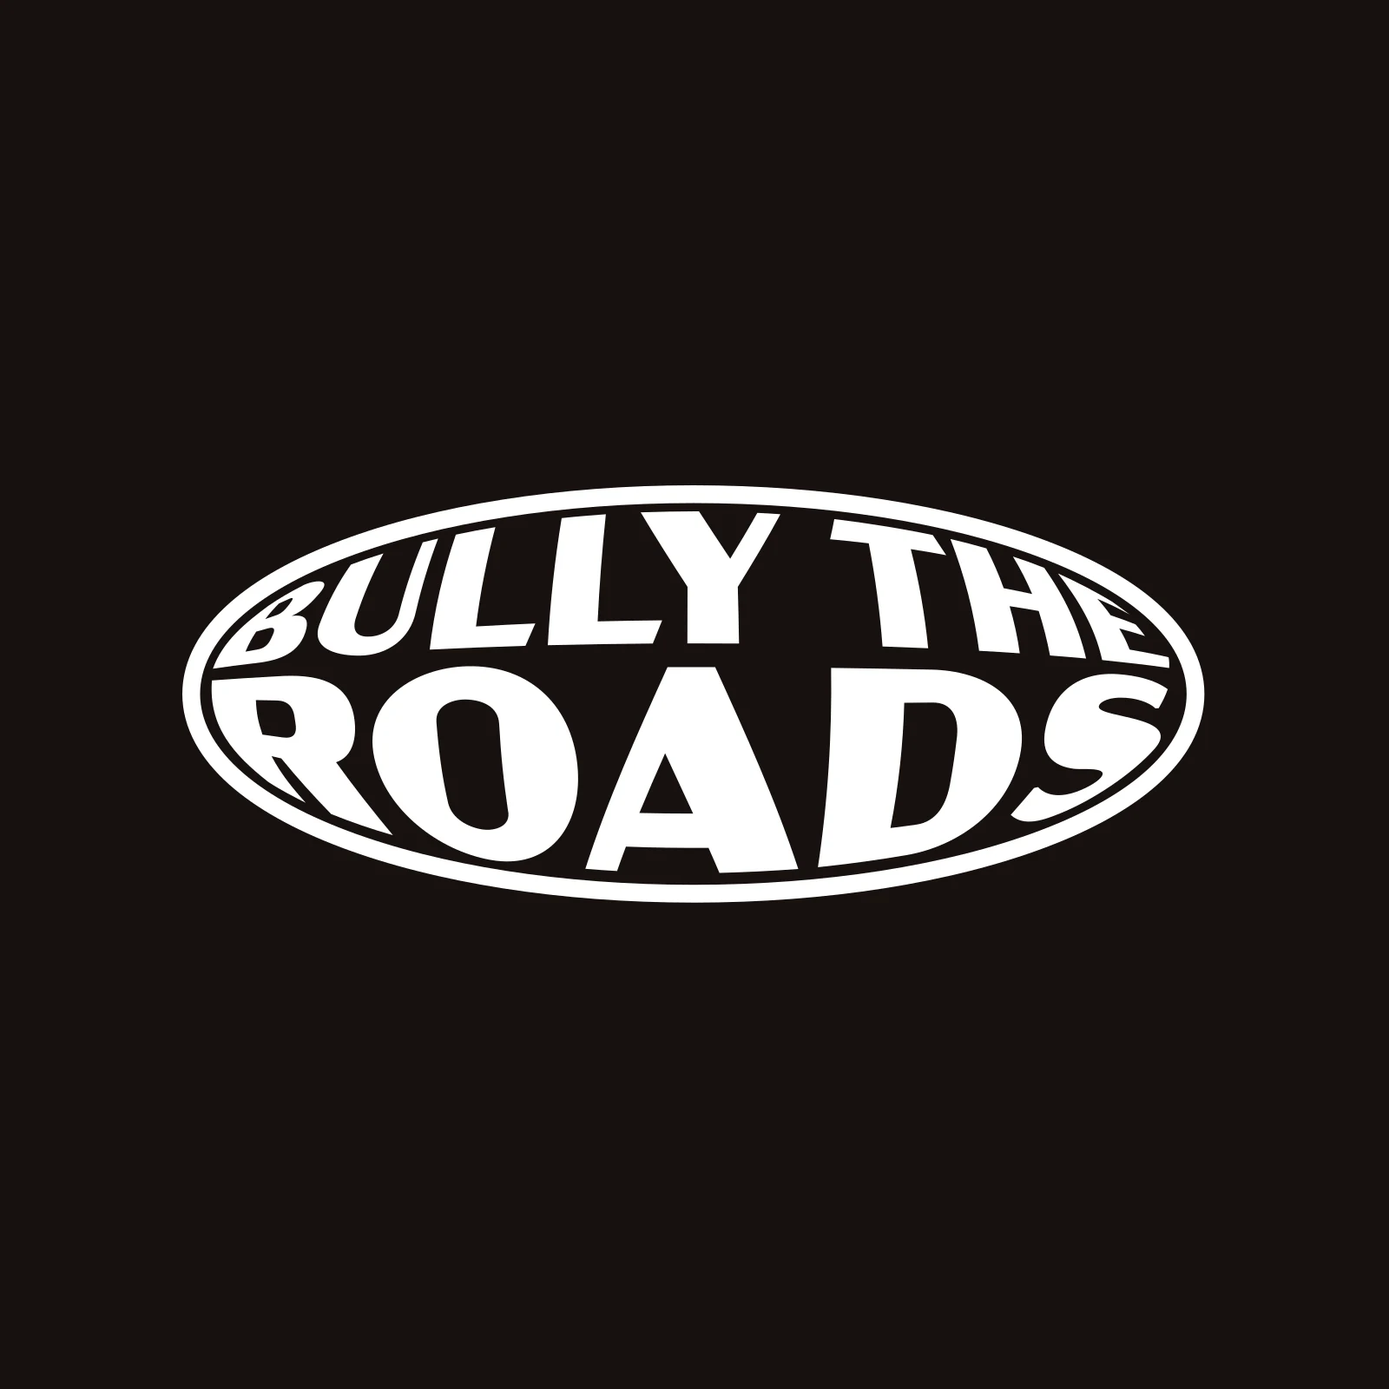
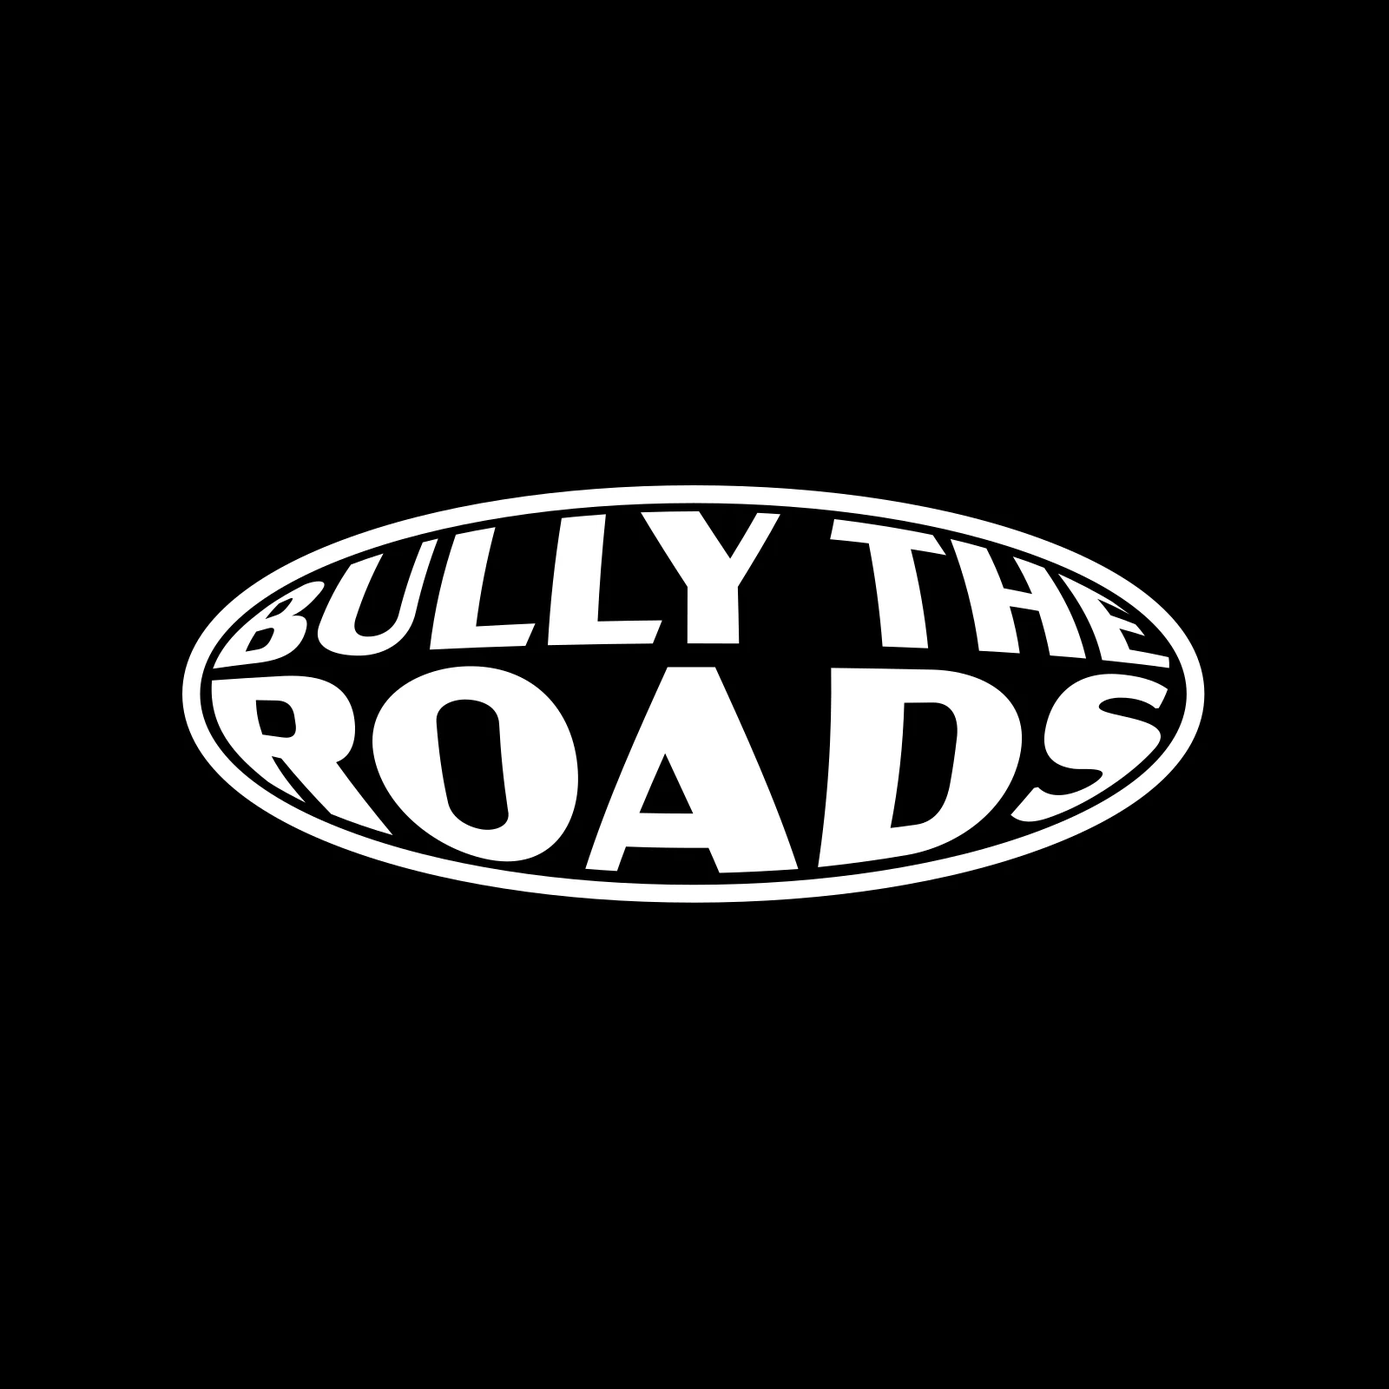
Bully The Roads: badge white on black and black on white, cut type and modes copy
Claude-Session: https://claude.ai/code/session_014Ezcq5BFYYXyuuBGNHBeA6

diff --git a/assets/data.js b/assets/data.js
@@ -55,7 +55,7 @@ window.BERNS = {
       summary: 'The London run club I founded, and everything it looks like: the badge, the series, the content and the kit.',
       quote: 'You run. We bully.',
       cover: 'assets/work/btr/cover.webp', img: 'assets/work/btr/cover.webp', /* the crew at Runlimited, IMG_3259 (Berns's pick, Nov 2026) */
-      chapters: [{"h": "The club", "text": ["Bully The Roads started in lockdown in 2020, a few of us running the streets of London. In 2024 I brought it back as a proper club: grassroots, for all people and all paces.", "The idea is simple. Sport doesn't stop at school. Bully The Roads is PE for adults, running first, with track sessions, rounders and sports days along the way. Every challenge is there to be overcome, so we bully it.", "I founded it, so the brief was mine too: make a small club look and feel like a real sports club, without losing the warmth that keeps people coming back."], "rows": []}, {"h": "The identity", "text": ["The badge is the whole system. Bully The Roads sits inside an oval, like an old athletics club crest, and it is always the logo or nothing: the name is never set in type in its place. It comes in two files, a solid black oval for the day colours and a white reverse with an open centre for ink and night.", "The oval is also a container. Swap the words and it becomes a mark for whatever we take on next: 10K, Marathon, Sports Day. Anton, stretched into towers, shouts the headline, Archivo carries days, places and numbers, Instrument Serif italic is the joke in between, and Space Mono sets the facts: times, distances, meeting points.", "The club shows up in two lights. Day is for Saturday sessions, sports days and socials: lemon, tangerine, marigold and rose as whole grounds, with ink type and the solid badge. Night is for anything after six: plum-black grounds lit by soft glows, lavender type, Unbounded in place of Anton, a flare gradient on one word, and the reverse badge. The grid, the voice and the logo never change."], "rows": [{"row": "pair", "items": [{"img": "assets/work/btr/badge-black.webp", "r": 1.0, "cap": "The badge, reverse, on ink"}, {"img": "assets/work/btr/badge-white.webp", "r": 1.0, "cap": "The badge, solid, on lemon"}]}, {"row": "trio", "cap": "One oval, any challenge", "items": [{"img": "assets/work/btr/oval-10k.webp", "r": 1.0, "cap": "10K"}, {"img": "assets/work/btr/oval-marathon.webp", "r": 1.0, "cap": "Marathon"}, {"img": "assets/work/btr/oval-sportsday.webp", "r": 1.0, "cap": "Sports Day"}]}]}, {"h": "The series", "text": ["Every series gets its own name and its own look, always under the badge. The Night Shift was eight weeks of Thursday night city runs through central London. Bully the Track took us to the London Marathon Community Track every Wednesday in July, for speed and endurance.", "The Kings Cross Run is the latest: Thursday nights with Runlimited at Coal Drops Yard. Bag drop at six, run at half six, 5K, every pace welcome."], "rows": [{"row": "trio", "items": [{"img": "assets/work/btr/night-shift.webp", "r": 0.8, "cap": "The Night Shift"}, {"img": "assets/work/btr/track.webp", "r": 0.8, "cap": "Bully the Track, summer 2025"}, {"img": "assets/work/btr/kx-run.webp", "r": 0.8, "cap": "Kings Cross Run, with Runlimited"}]}, {"row": "pair", "items": [{"img": "assets/work/btr/night-shift-calendar.webp", "r": 0.8, "cap": "The Night Shift, run calendar"}, {"video": "assets/video/btr/kx-run.mp4", "poster": "assets/video/btr/kx-run.webp", "r": 0.8, "cap": "Kings Cross Run, the weekly post"}]}]}, {"h": "Thursday nights", "text": ["Saheed shot the Kings Cross Run: dark streets, city lights and the crew mid-stride, from bag drop at Runlimited to the stretch at the end."], "rows": [{"row": "full", "items": [{"img": "assets/work/btr/232.webp", "r": 1.25, "cap": "Coal Drops Yard"}]}]}, {"h": "The kit", "text": ["Merch turns members into the billboard. The You Run. We Bully. tee, made with MSNGR, keeps the badge front and centre. Turn it round to see the back."], "rows": [{"row": "offset", "items": [{"tee": {"front": "assets/work/btr/tee-front.webp", "back": "assets/work/btr/tee-back.webp", "model": "assets/work/btr/tee.glb"}, "r": 1.25, "cap": "BTR x MSNGR tee"}]}]}, {"h": "Where it's going", "text": ["We don't run every week. We run in series across the year, each with its own name and its own look under the same badge. It also led to Track + Play, the community sports day I co-founded.", "Next is developing the visual identity and the community structure behind it."], "rows": [{"row": "full", "items": [{"img": "assets/work/btr/lights.webp", "r": 1.25, "cap": "See you on the road"}]}]}],
+      chapters: [{"h": "The club", "text": ["Bully The Roads started in lockdown in 2020, a few of us running the streets of London. In 2024 I brought it back as a proper club: grassroots, for all people and all paces.", "The idea is simple. Sport doesn't stop at school. Bully The Roads is PE for adults, running first, with track sessions, rounders and sports days along the way. Every challenge is there to be overcome, so we bully it.", "I founded it, so the brief was mine too: make a small club look and feel like a real sports club, without losing the warmth that keeps people coming back."], "rows": []}, {"h": "The identity", "text": ["The badge is the whole system. Bully The Roads sits inside an oval, like an old athletics club crest, and it is always the logo or nothing: the name is never set in type in its place. It comes in two files: the black oval on white, and the white reverse on black.", "The oval is also a container. Swap the words and it becomes a mark for whatever we take on next: 10K, Marathon, Sports Day."], "rows": [{"row": "pair", "items": [{"img": "assets/work/btr/badge-black.webp", "r": 1.0, "cap": "The badge, white on black"}, {"img": "assets/work/btr/badge-white.webp", "r": 1.0, "cap": "The badge, black on white"}]}, {"row": "trio", "cap": "One oval, any challenge", "items": [{"img": "assets/work/btr/oval-10k.webp", "r": 1.0, "cap": "10K"}, {"img": "assets/work/btr/oval-marathon.webp", "r": 1.0, "cap": "Marathon"}, {"img": "assets/work/btr/oval-sportsday.webp", "r": 1.0, "cap": "Sports Day"}]}]}, {"h": "The series", "text": ["Every series gets its own name and its own look, always under the badge. The Night Shift was eight weeks of Thursday night city runs through central London. Bully the Track took us to the London Marathon Community Track every Wednesday in July, for speed and endurance.", "The Kings Cross Run is the latest: Thursday nights with Runlimited at Coal Drops Yard. Bag drop at six, run at half six, 5K, every pace welcome."], "rows": [{"row": "trio", "items": [{"img": "assets/work/btr/night-shift.webp", "r": 0.8, "cap": "The Night Shift"}, {"img": "assets/work/btr/track.webp", "r": 0.8, "cap": "Bully the Track, summer 2025"}, {"img": "assets/work/btr/kx-run.webp", "r": 0.8, "cap": "Kings Cross Run, with Runlimited"}]}, {"row": "pair", "items": [{"img": "assets/work/btr/night-shift-calendar.webp", "r": 0.8, "cap": "The Night Shift, run calendar"}, {"video": "assets/video/btr/kx-run.mp4", "poster": "assets/video/btr/kx-run.webp", "r": 0.8, "cap": "Kings Cross Run, the weekly post"}]}]}, {"h": "Thursday nights", "text": ["Saheed shot the Kings Cross Run: dark streets, city lights and the crew mid-stride, from bag drop at Runlimited to the stretch at the end."], "rows": [{"row": "full", "items": [{"img": "assets/work/btr/232.webp", "r": 1.25, "cap": "Coal Drops Yard"}]}]}, {"h": "The kit", "text": ["Merch turns members into the billboard. The You Run. We Bully. tee, made with MSNGR, keeps the badge front and centre. Turn it round to see the back."], "rows": [{"row": "offset", "items": [{"tee": {"front": "assets/work/btr/tee-front.webp", "back": "assets/work/btr/tee-back.webp", "model": "assets/work/btr/tee.glb"}, "r": 1.25, "cap": "BTR x MSNGR tee"}]}]}, {"h": "Where it's going", "text": ["We don't run every week. We run in series across the year, each with its own name and its own look under the same badge. It also led to Track + Play, the community sports day I co-founded.", "Next is developing the visual identity and the community structure behind it."], "rows": [{"row": "full", "items": [{"img": "assets/work/btr/lights.webp", "r": 1.25, "cap": "See you on the road"}]}]}],
       made: ["The badge and event marks", "Colour and type", "Series identities: The Night Shift, Bully the Track, Kings Cross Run", "Weekly social content", "Merch"],
       credits: [["Me", "Founder. Identity, art direction, design and content"], ["Photography", "Saheed, Kings Cross Run"], ["Kings Cross Run", "With Runlimited, Coal Drops Yard"]] },
     { id: 'everyone-wants-posters', name: 'Everyone Wants Posters', client: '', discipline: 'Poster design', year: '',

diff --git a/studios/project.html b/studios/project.html
@@ -16,7 +16,7 @@
 <link rel="preconnect" href="https://fonts.gstatic.com" crossorigin>
 <link rel="stylesheet" href="https://fonts.googleapis.com/css2?family=Space+Mono:wght@700&display=swap">
 <link rel="stylesheet" href="../assets/core.css?v=124">
-<script src="../assets/data.js?v=39"></script>
+<script src="../assets/data.js?v=40"></script>
 <script src="../assets/copy.js?v=1"></script>
 <script>
 /* The project's colour, set before the first paint so the page opens in it */

diff --git a/shop/print.html b/shop/print.html
@@ -103,7 +103,7 @@
   </section>
 </main>
 
-<script src="../assets/data.js?v=39"></script>
+<script src="../assets/data.js?v=40"></script>
 <script src="../assets/core.js?v=50"></script>
 <script src="https://cdn.jsdelivr.net/npm/three@0.128.0/build/three.min.js" defer></script>
 <script src="https://cdn.jsdelivr.net/npm/three@0.128.0/examples/js/controls/OrbitControls.js" defer></script>

diff --git a/studios/index.html b/studios/index.html
@@ -74,7 +74,7 @@
   <a href="#top" onclick="scrollTo({top:0,behavior:'smooth'});return false">Back to top &uarr;</a>
 </footer>
 
-<script src="../assets/data.js?v=39"></script>
+<script src="../assets/data.js?v=40"></script>
 <script src="../assets/copy.js?v=1"></script>
 <script src="../assets/core.js?v=50"></script>
 <script src="../assets/work.js?v=48"></script>

diff --git a/community/index.html b/community/index.html
@@ -45,7 +45,7 @@
   <div class="mark rv" data-logo></div>
 </section>
 </main>
-<script src="../assets/data.js?v=39"></script>
+<script src="../assets/data.js?v=40"></script>
 <script src="https://cdn.jsdelivr.net/npm/lenis@1.1.13/dist/lenis.min.js"></script>
 <script src="../assets/site.js"></script>
 </body>

diff --git a/presenting/index.html b/presenting/index.html
@@ -41,7 +41,7 @@
   <div class="mark rv" data-logo></div>
 </section>
 </main>
-<script src="../assets/data.js?v=39"></script>
+<script src="../assets/data.js?v=40"></script>
 <script src="https://cdn.jsdelivr.net/npm/lenis@1.1.13/dist/lenis.min.js"></script>
 <script src="../assets/site.js"></script>
 </body>

diff --git a/shop/index.html b/shop/index.html
@@ -67,7 +67,7 @@
   </div>
 </main>
 
-<script src="../assets/data.js?v=39"></script>
+<script src="../assets/data.js?v=40"></script>
 <script src="../assets/core.js?v=50"></script>
 <script src="../assets/shop.js?v=76"></script>
 </body>

diff --git a/CLAUDE.md b/CLAUDE.md
@@ -19,7 +19,7 @@ Personal site for Berns (Bernard Bannor). "Berns" is the main name; Berns Studio
 - Editorial case studies (Nov 2026, Berns's call, "more Pentagram", This Bed I Made first): a project can carry `chapters` instead of `about` in data.js: `[{ h, text: [...], rows: [...] }]`, then `made` (What I made list) and `credits` (`[[label, text], ...]`) render as a closing Credits section. Rows show each piece at its own shape, no cropping (`r` = width / height on every item, cells flex by ratio so a row shares one height): `full` (edge to edge), `wide`, `offset` (on the text column, left edges aligned, up to 760 design px), `pair`, `trio`, `quad`, `palette` (`colours: [[name, hex]]`). Items `{ img, r, cap }` or `{ video, poster, r, cap }`; row `cap`, `bg`. Every caption is numbered in mono; when a row's pieces have their own captions the row caption becomes the set's title above them (`.set`). Phones: portrait pairs stay side by side, trios and quads swipe, the rest stacks. Media per project lives in its own folder (`assets/work/tbim/`, `assets/video/tbim/`): WebP q80 (2200-2400 wide for full rows, 1080-1600 otherwise), muted H.264 loops at crf 26-27. TBIM's source files are in iCloud: Berns Studios > Projects > ✅ > ARCHIVE > 2026 > This Bed I Made. NTERIORS is the second (Nov 2026), cut back on Berns's call: brief, the mark (symbol only), the landing page (screens of Berns's own build, rendered from `nteriors-london/index.html` in the archive), outcome; opener is the logo (`assets/work/nteriors.webp`). The concept routes, V2 round and brand guidelines pages stay PRIVATE (his own files), never on the site; media in `assets/work/nteriors/`. Berns's rule for case studies: show the process and the outcome only, never fees, invoices, addresses or contract terms, and curate (fewer, stronger pieces). Palette rows take any number of colours (`--n`). Monzo (Nov 2026, Berns's notes): he ONLY made the pot-title drop-ins (Holibobs, Cat dentist, Rewedding) and the Get Your Money Moving article header and drop-in images; never credit him with name cards, end cards, templates or the edit. Opener and Work thumbnail are a 21s loop cut from Berns's own copy of the film (`video/monzo/film-loop.mp4`, 0:11 to 0:32, all three pot titles drop in; poster `film-loop.webp` is the Holibobs frame; no `cover`). Pot titles are a `sync: true` trio (same length, started together, locked to the first). Phones get a lighter loop (`videoSm`, 854x480, about 850KB, on Work too) that autoplays and loads at once; the poster is preloaded from the page head. Trios and quads on phones: one height across the set (cells sized by `--rmax`), with a 1 / 3 count and round arrows (`.cs-swipe`) so they read as a carousel. The laptop keeps the desktop shape on phones (16:10 screen, slim bezel and bar), just scaled down. Article images cut from the page PDFs. `row: 'laptop'`: a CSS laptop with a clickable, scrollable mock of the live pages (`pages` with link boxes as fractions of each page image; `tour` order); it auto-tours (cursor, click, scroll, back) when on screen until the visitor scrolls or clicks inside, then Play the tour restarts it; no tour for reduced motion. The film is embedded at the end of the outcome (`row: 'film'`, gmYGdidvrgA, "How to transform your saving habits"). Chapter copy is a first draft in Berns's voice for him to edit. Styles at the end of core.css (`.cs-row`, `.cs-cells`, `.cs-cell`, `.cs-media`, `.cs-cap`, `.cs-swatches`, `.cs-made`, `.cs-credits`).
 - TOGETHER case study (Nov 2026): Guardian Advertising BHM campaign Berns started (2025). Chapters: brief, identity (pattern, lockup, section headings, Pan-African palette), video series (two pairs: Ahmed, Joseph, Cherise, Duane; first names only in captions, Berns's call), panel (speaker visual; the screen photo beside the countdown loop, which now runs 00:10 to 00:00 and fades back in from the blank ground so the loop is smooth), around the building (email header, then a trio: office-screens video, Plantain Papi and Zobo/Chapman pop-ups; the social post was dropped), impact (200+ at live activations, The Guardian's LinkedIn post embedded via `row: 'post'`, an iframe on the text column). Media in `assets/work/together/` and `assets/video/together/`. Missing: the logo animation export, the full episodes (need YouTube links). Monzo's Work thumbnail is now the pink-curtain sofa still (`cover: monzo-articles/film-thumb.webp`, Berns's call).
 - Track + Play case study (Nov 2026, built from Berns's old Cargo page, bernsds.com/track-+-play): cover and Work thumbnail are the play card in the stands (`work/tp/cover.webp`, Berns's pick); the logo animation loop sits in The approach. Chapters: brief, approach (longform mark on the track + T + P flag), execution (the 26s vertical launch video first, `r: 0.5625` makes a film row tall, on the text column with its left edge lined up with the words (full width on phones), filmed by Kelvin Atiasé, Berns's animation and voiceover, Jude Amponsah's music and sound; then the 2:10 highlights film, self-hosted with sound: `row: 'film'` with `src` instead of `youtube` plays our own `<video controls>` in place of the card; then lanyard and play-card portraits, then the team), impact (the stands, full width; the trophy on the text column). Credits from the old page. Copy rows added to the sheet (the old `track-and-play|about` row is marked unused). Media in `assets/work/tp/` and `assets/video/tp/` (highlights 12MB, loads only on Play). Year 2025.
-- Bully The Roads case study (Nov 2026, Berns's call: "use the photos Saheed took"; pass 2 Nov 27): six chapters (the club, the identity, the series, Thursday nights, the kit, where it's going), quote "You run. We bully.", year "Since 2020". Cover and Work thumbnail are the crew shot at Runlimited, IMG_3259 (Berns's pick; `work/btr/cover.webp`); the club chapter has no photo so it does not repeat it. Identity follows the BTR DESIGN SYSTEM (claude.ai artifact 6988261d, README + Logo card): logo or nothing, two files, solid black oval on the day colours (tile on lemon #F0E42D) and white reverse with open centre on ink (tile on #17110F), both rendered from the design system's btr-oval-solid/reverse SVGs; two modes from the system's tokens.json: Day palette lemon #F0E42D, tangerine #F56137, marigold #E3861A, rose #E8A09A, ink #17110F; Night palette night-ground #0E010A, navy #0A182C, plum #A477B0, magenta #68266F, flare #FF7D01, red #E41E1C, night-blue #2F5BE8, lavender #DFE0FE (NOT black/white/red; no palette swatches on the page, Berns's call: the colours are in the copy only); type Anton, Archivo, Instrument Serif italic, Space Mono, plus Unbounded for Night. Removed on Berns's call: the voice section (line posts, Bullied It, all reels incl. Nobody Bullies Alone) and the Jude credit with it, the posting date line and 'photos feed what we post'; the kit is the BTR x MSNGR tee only, as a real 3D tee (`tee` item: `{ model, front, back }`; coin.js loads `work/btr/tee.glb` with GLTFLoader. The tee was sewn and draped in Blender (bpy cloth sim: front/back panels traced from the flat-lay cutout, sewn round a mannequin, UVs lined up with the prints, decimated to ~60k tris, 1.3MB). Drag or arrow keys to turn, idles). Thursday nights keeps only the Coal Drops Yard photo (Berns cut the other six). Where it's going: we run in series across the year, not every week; next is the visual identity and community structure. Series: The Night Shift, Bully the Track, Kings Cross Run (with Runlimited). Photos are Saheed's Kings Cross Run gallery (credit: Saheed, no date). Media in `assets/work/btr/`, `assets/video/btr/` (only kx-run left). Sheet rows rewritten for the new chapter numbering (stale keys override data.js). Open: what '26' meant in 'in motion, only keep 26'.
+- Bully The Roads case study (Nov 2026, Berns's call: "use the photos Saheed took"; pass 2 Nov 27): six chapters (the club, the identity, the series, Thursday nights, the kit, where it's going), quote "You run. We bully.", year "Since 2020". Cover and Work thumbnail are the crew shot at Runlimited, IMG_3259 (Berns's pick; `work/btr/cover.webp`); the club chapter has no photo so it does not repeat it. Identity follows the BTR DESIGN SYSTEM (claude.ai artifact 6988261d, README + Logo card): logo or nothing, two files: white reverse on black (tile #000000) and solid black oval on white (tile #FFFFFF) (Berns's call, Nov 27; was lemon/ink; the type and Day/Night copy was cut too), both rendered from the design system's btr-oval-solid/reverse SVGs; two modes from the system's tokens.json: Day palette lemon #F0E42D, tangerine #F56137, marigold #E3861A, rose #E8A09A, ink #17110F; Night palette night-ground #0E010A, navy #0A182C, plum #A477B0, magenta #68266F, flare #FF7D01, red #E41E1C, night-blue #2F5BE8, lavender #DFE0FE (NOT black/white/red; no palette swatches on the page, Berns's call: the colours are in the copy only); type Anton, Archivo, Instrument Serif italic, Space Mono, plus Unbounded for Night. Removed on Berns's call: the voice section (line posts, Bullied It, all reels incl. Nobody Bullies Alone) and the Jude credit with it, the posting date line and 'photos feed what we post'; the kit is the BTR x MSNGR tee only, as a real 3D tee (`tee` item: `{ model, front, back }`; coin.js loads `work/btr/tee.glb` with GLTFLoader. The tee was sewn and draped in Blender (bpy cloth sim: front/back panels traced from the flat-lay cutout, sewn round a mannequin, UVs lined up with the prints, decimated to ~60k tris, 1.3MB). Drag or arrow keys to turn, idles). Thursday nights keeps only the Coal Drops Yard photo (Berns cut the other six). Where it's going: we run in series across the year, not every week; next is the visual identity and community structure. Series: The Night Shift, Bully the Track, Kings Cross Run (with Runlimited). Photos are Saheed's Kings Cross Run gallery (credit: Saheed, no date). Media in `assets/work/btr/`, `assets/video/btr/` (only kx-run left). Sheet rows rewritten for the new chapter numbering (stale keys override data.js). Open: what '26' meant in 'in motion, only keep 26'.
 - TBIM case study (Nov 2026, Berns's notes, passes 2 and 3):
   - Quote: set in the record's own lettering (`quoteArt` in data.js: two line masks traced from the mantra artwork, `mantra-1/2.webp`, gold #F4DC8B). A pinned ink scene like About (`.cs-mantra`, 280svh, scroll-driven in case.js): line one fades up, then line two (like the end credits), holds, lets go. The bar turns ink with it (core.js grounds now pick the innermost `data-ground`).
   - Two faces: one 3D coin after the real struck one (`row: 'coin'`, `assets/coin.js`, three.js r128 + RoomEnvironment, loaded near the screen): antique brass, raised plain rim, THIS BED I MADE • twice round a dark sunk band (Cinzel Bold baked into the relief map, the font is not shipped), satin field with the face cut in. Relief maps `coin-a/b.webp` (red = height, green = patina) from Coin concept 001, made by a one-off script (faces scaled to the bigger field). Drag, arrow keys, Turn it button; idles slowly. It sits on the white page, centred, Turn it in ink, on desktop and phones alike, and there is no flat poster of the old coins before the 3D fades in (Berns's call, Nov 2026).
